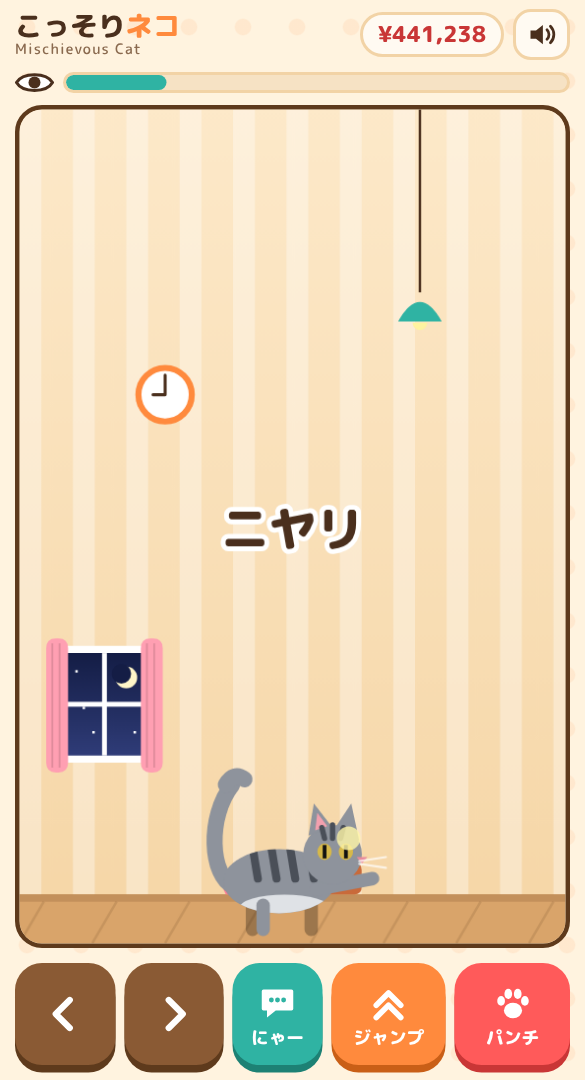
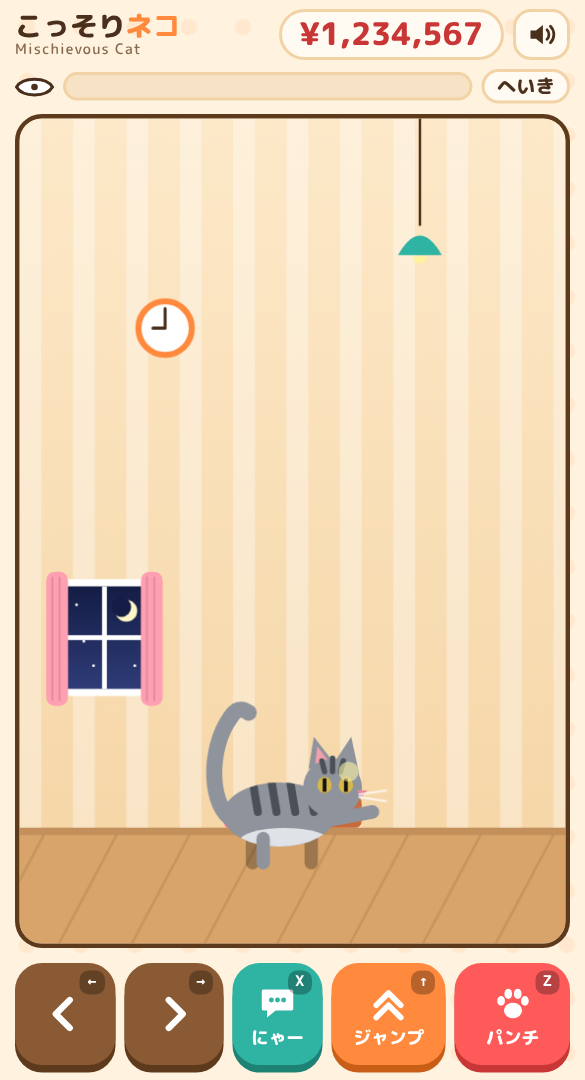
4.24.2: エンディングの「ニヤリ」の文字をやめる（顔と目の光だけ）。スクリーンショット更新

diff --git a/index.html b/index.html
@@ -304,7 +304,7 @@ const FONT = '"M PLUS Rounded 1c","Hiragino Maru Gothic ProN","Hiragino Sans","B
 try { document.fonts.load(`500 16px "M PLUS Rounded 1c"`); document.fonts.load(`800 16px "M PLUS Rounded 1c"`); } catch (e) {}
 const SITE = 'https://kotaooka.github.io/mischievous-cat/';
 // バージョン（中身を変えたら上げる。sw.js の VERSION とは別）
-const APP_VER = '4.24.1', REPO = 'https://github.com/kotaooka/mischievous-cat', AUTHOR = 'Kota Ooka';   // AUTHOR：スタッフロールと締めの画面に出す作者名
+const APP_VER = '4.24.2', REPO = 'https://github.com/kotaooka/mischievous-cat', AUTHOR = 'Kota Ooka';   // AUTHOR：スタッフロールと締めの画面に出す作者名
 const verLine = () => `<p class="ver">v${APP_VER}　<a href="${REPO}" target="_blank" rel="noopener">GitHub</a></p>${lastErrLine()}`;
 // 最後に起きたエラーを端末に残し、設定画面のバージョンの下に小さく出す（原因を調べるため。押すと消える）
 function noteErr(kind, e) { try { const msg = (e && (e.message || e.reason && e.reason.message)) || String(e && e.reason || e), st = (e && (e.error && e.error.stack || e.reason && e.reason.stack)) || ''; store.set('nekoLastErr', JSON.stringify({ v: APP_VER, kind, state: typeof state === 'string' ? state : '', msg: String(msg).slice(0, 160), stack: String(st).slice(0, 400), at: new Date().toISOString() })); } catch (e2) {} }
@@ -3303,7 +3303,6 @@ function drawEnding() {
       g.globalAlpha = dark; [[229, F - 33], [239, F - 33]].forEach(([x0, y0]) => { const x = zx(x0), y = zy(y0); g.fillStyle = `rgba(255,230,120,${0.25 * gl})`; g.beginPath(); g.ellipse(x, y, 8 * z, (6 * bl + 1) * z, 0, 0, TAU); g.fill(); g.fillStyle = '#ffe36b'; g.beginPath(); g.ellipse(x, y, 4 * z, 3.4 * bl * z, 0, 0, TAU); g.fill(); g.fillStyle = '#1a1200'; g.beginPath(); g.ellipse(x, y, 1.2 * z, 3 * bl * z, 0, 0, TAU); g.fill(); });
       if (e > 8.0) { g.strokeStyle = '#fff'; g.lineWidth = 2 * z; g.beginPath(); g.moveTo(zx(228), zy(F - 23)); g.quadraticCurveTo(zx(236), zy(F - 17), zx(244), zy(F - 24)); g.stroke(); }   // ニヤリの口
       g.globalAlpha = 1; }
-    if (e > 8.0 && e < 12.2) { g.font = `800 ${40 + Math.sin(tAnim * 8) * 2}px ${FONT}`; g.lineWidth = 8; g.strokeStyle = '#1a1430'; const t = lt('ニヤリ', 'Heh.'); g.strokeText(t, W / 2, 200); g.fillStyle = '#fff6c8'; g.fillText(t, W / 2, 200); }
     if (e > 9.5 && e < 10.7) offSay(String(EN.oops), F - 250);
     if (e > 10.9 && e < 12.2) offSay(lt('……気のせいか', '……Must be my imagination'), F - 250);
   } else if (ET === 'true') {
@@ -3322,7 +3321,6 @@ function drawEnding() {
     if (e > 11.5 && e < 12.2) offSay(lt('寝てるなら…しょうがないか', "Well… if it's asleep"), F - 250);
     if (e > 11.4 && e < 12.2) { const k = (tAnim * 2) % 1; g.fillStyle = '#fff6a8'; g.globalAlpha = Math.sin(k * Math.PI); g.beginPath(); g.arc(240, F - 34, 2 + 3 * Math.sin(k * Math.PI), 0, TAU); g.fill(); g.globalAlpha = 1; }   // 片目だけ、きらり
   } else {
-    if (e > 8.0 && e < 12.2) { g.font = `800 ${40 + Math.sin(tAnim * 8) * 2}px ${FONT}`; g.lineWidth = 8; g.strokeStyle = '#fff'; const t = lt('ニヤリ', 'Heh.'); g.strokeText(t, W / 2, 200); g.fillStyle = '#4a2f1d'; g.fillText(t, W / 2, 200); }
     if (ET === 'wrecker') {
       if (e > 9.5 && e < 10.3) offSay(String(EN.oops), F - 250);
       if (e > 9.4 && e < 11.4) { const t = pick([lt('ガシャン', 'CRASH'), lt('ドガーン', 'BOOM'), lt('パリーン', 'SMASH')]); if (Math.floor(e * 2) !== endLastPop) { endLastPop = Math.floor(e * 2); endPopTxt = t; } g.font = `800 ${22 + Math.sin(tAnim * 10) * 2}px ${FONT}`; g.lineWidth = 6; g.strokeStyle = '#fff'; g.strokeText(endPopTxt, 110 + (endLastPop % 3) * 110, F - 200); g.fillStyle = '#e0362c'; g.fillText(endPopTxt, 110 + (endLastPop % 3) * 110, F - 200); }
@@ -3330,7 +3328,7 @@ function drawEnding() {
     } else if (e > 9.5 && e < 11) offSay(String(EN.oops), F - 250);
   }
   // 終わりの札
-  const k2 = clamp((e - 12.2) / 0.6, 0, 1);   // 「ニヤリ」のあとに、終わりの札（約3秒見せてから締めの画面）
+  const k2 = clamp((e - 12.2) / 0.6, 0, 1);   // オチのあとに、終わりの札（4.24.2：大きな「ニヤリ」の文字はやめ、顔と目の光だけにした）（約3秒見せてから締めの画面）
   if (k2 > 0) { g.fillStyle = `rgba(20,14,40,${0.55 * k2})`; g.fillRect(0, -OY, W, VH); g.globalAlpha = k2; g.fillStyle = '#fff6c8'; g.font = `800 34px ${FONT}`; g.fillText(ET === 'true' ? lt('おしまい', 'The End') : lt('おしまい……？', 'The end…?'), W / 2, 220); g.font = `800 16px ${FONT}`; { const nd = ET === 'true' ? TRUE_DAY : END_DAY; g.fillText(lt(nd + '日間の被害額 ', nd + '-day damage ') + yen(run.yen), W / 2, 262); } g.globalAlpha = 1; }
   // 最初はふわっと明るく
   if (e < 0.8) { g.fillStyle = `rgba(20,14,40,${1 - e / 0.8})`; g.fillRect(0, -OY, W, VH); }

diff --git a/sw.js b/sw.js
@@ -1,6 +1,6 @@
 // こっそりネコのサービスワーカー：一度開けばオフラインでも遊べるようにする
 // 中身を更新したら VERSION を上げる（古いキャッシュを消すため）
-const VERSION = 'neko-v89';
+const VERSION = 'neko-v90';
 const CORE = ['./', './index.html', './manifest.webmanifest', './icons/icon.svg', './icons/icon-192.png', './icons/icon-512.png', './icons/apple-touch-icon.png', './fonts/mplus-rounded-500.woff2', './fonts/mplus-rounded-800.woff2'];
 
 self.addEventListener('install', e => {

diff --git a/development.md b/development.md
@@ -94,6 +94,10 @@ HTML に直接書いた文字（下のボタン、読み上げ用のラベル、
 - ランキングの記録に `k`（続けた回数）を入れる（v6）。署名は `y|s|st|sk|k|uid|鍵`。`firestore.rules` を公開し直すまで、v6 の記録は送れない
 - 見つかった原因：`updSus` でいちばん多く怪しまれ度を上げた見張り（飼い主・子ども・おばあちゃん・お父さん・お客さん・ペットカメラ）を `run.lastBy` に覚え、`caught` で `run.cause` にする。時間切れは `time`。通算記録（`LIFE.cause`・`LIFE.where`）に足して「見つかった原因」「よく見つかった場所」に出す
 
+## エンディングの「ニヤリ」の文字をやめる（4.24.2）
+
+寸劇の 8〜12 秒に出していた大きな「ニヤリ」の文字をやめ、顔（smug）と目の光だけにした。README のスクリーンショット 20-ending を撮り直し。
+
 ## テストメニュー（4.24.1）
 
 せっていのバージョン表示を 2 秒以内に 5 回押すと、テストメニューが開く（`showTestMenu`）。1〜28 面の一覧（`stageLabel`：日・時間帯・部屋・夜の名前／相手／ルール）か番号を入れて、その面から始められる。エンディングの確認用再生もここから。ここから始めた回は `run.test` が付き、通算記録・自己ベスト・端末内ランキング・称号・カード・みんなのランキングへの送信・エンディングの記録に残らない（`gameOver` / `cardCheck` / `showEnding` / `sendScore` で除外）。

diff --git a/README.en.md b/README.en.md
@@ -101,7 +101,7 @@ Each room has its own watcher: the owner, a kid (fast but short-sighted), grandm
 </tr>
 <tr>
 <td align="center"><img src="docs/screenshots/en/19-lamp.png" width="200" alt="Swinging on the lamp"><br>Swinging on the lamp</td>
-<td align="center"><img src="docs/screenshots/en/20-ending.png" width="200" alt="The ending: heh."><br>The ending: heh.</td>
+<td align="center"><img src="docs/screenshots/en/20-ending.png" width="200" alt="The ending"><br>The ending</td>
 <td></td>
 </tr>
 </table>
